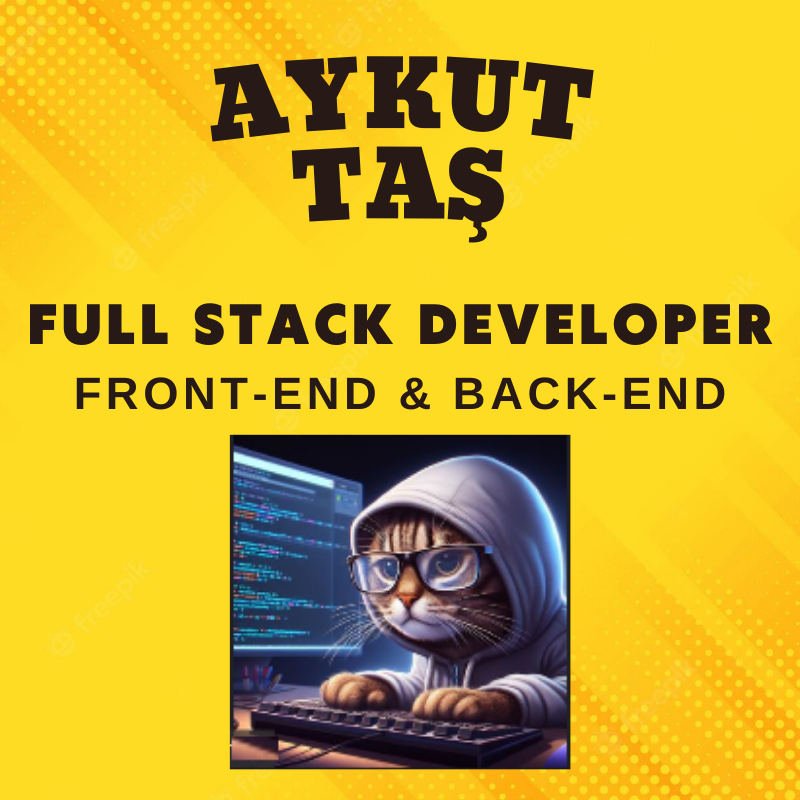
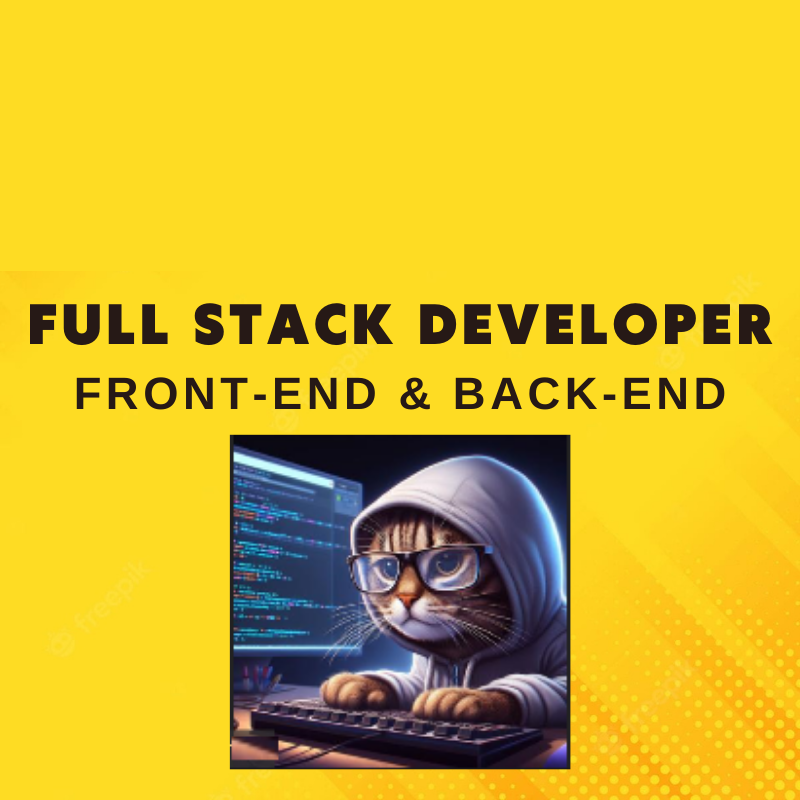
cc

Changed region(s): [[0.0, 0.0, 0.75, 0.3125]]

diff --git a/src/components/TableCard.jsx b/src/components/TableCard.jsx
@@ -5,7 +5,7 @@ const TableCard = () => {
    
 <div className="group origin-bottom-right duration-500 -rotate-12 hover:-rotate-0 hover:-skew-x-12 skew-x-0 hover:-translate-x-6  hover:translate-y-12">
   <div className="duration-500 group-hover:duration-400 relative rounded-2xl w-40 h-24 bg-zinc-800 text-gray-50 flex flex-col justify-center items-center gap-1 before:-skew-x-12  before:rounded-2xl  before:absolute before:content['']  before:bg-neutral-700 before:right-3 before:top-0 before:w-40 before:h-20 before:-z-10 group-hover:before:-right-3 group-hover:before:skew-x-12 before:duration-500 group-hover:duration-500">
-    <span className="text-2xl font-bold">Aykut Taş</span>
+    <span className="text-2xl font-bold">Akif Yılmaz</span>
     <p className="text-amber-300 font-thin">-Full Stack Developer-<br />Front-End & Back-End</p>
   </div>
 </div>

diff --git a/src/pages/About.jsx b/src/pages/About.jsx
@@ -15,7 +15,7 @@ const About = () => {
         <div className="col-sm-12 col-md-8 col-lg-6 col-xl-6">
           <div className="text-left">
             <p  style={{ textIndent: '40px'}}>
-              "Hello, I'm Aykut. I'm a passionate full stack developer focusing
+              "Hello, I'm Akif. I'm a passionate full stack developer focusing
               on both front-end and back-end domains. Working in the realm of
               software and coding isn't just a job for me; it's a passion and an
               area of keen interest. Keeping abreast of technological

diff --git a/src/pages/Home.jsx b/src/pages/Home.jsx
@@ -14,7 +14,7 @@ const Home = () => {
 
       <ul className="text-2xl  text-center font-Dancing Script  ">
         <li className="  font-bold text-center font-serif  animate__animated animate__fadeInDown">
-        Hi, I am Aykut Taş.
+        Hi, I am Akif Yılmaz.
         </li>
         <li className="text-xl animate__animated animate__fadeInUp">
           Full Stack Developer
